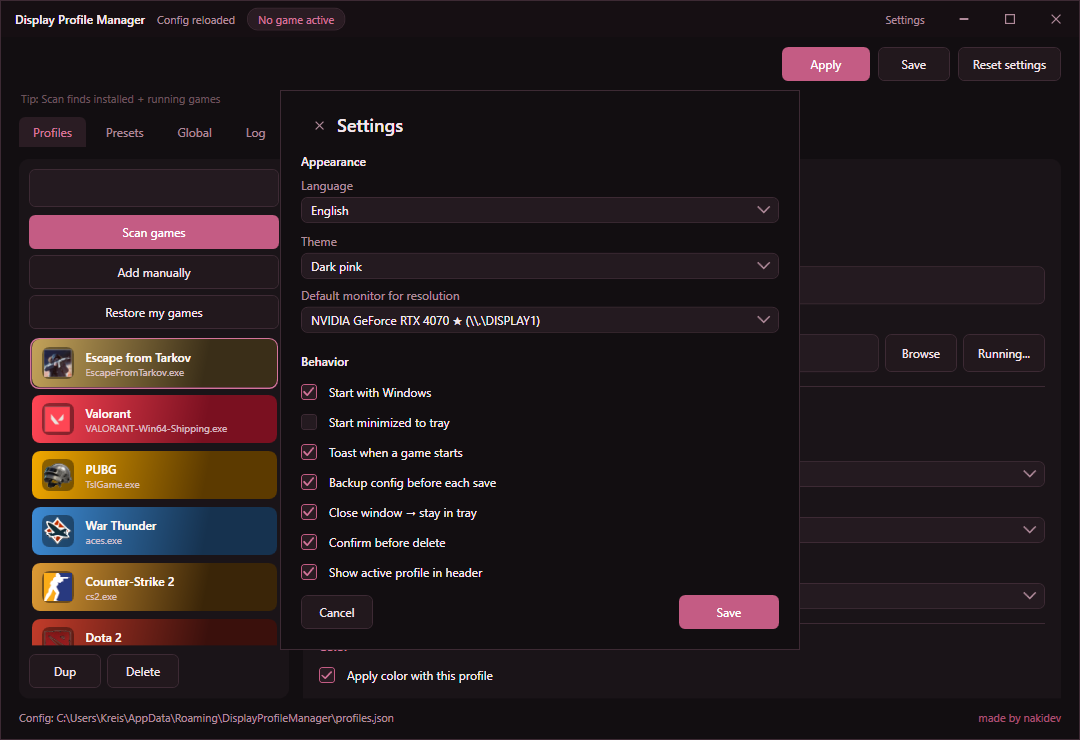
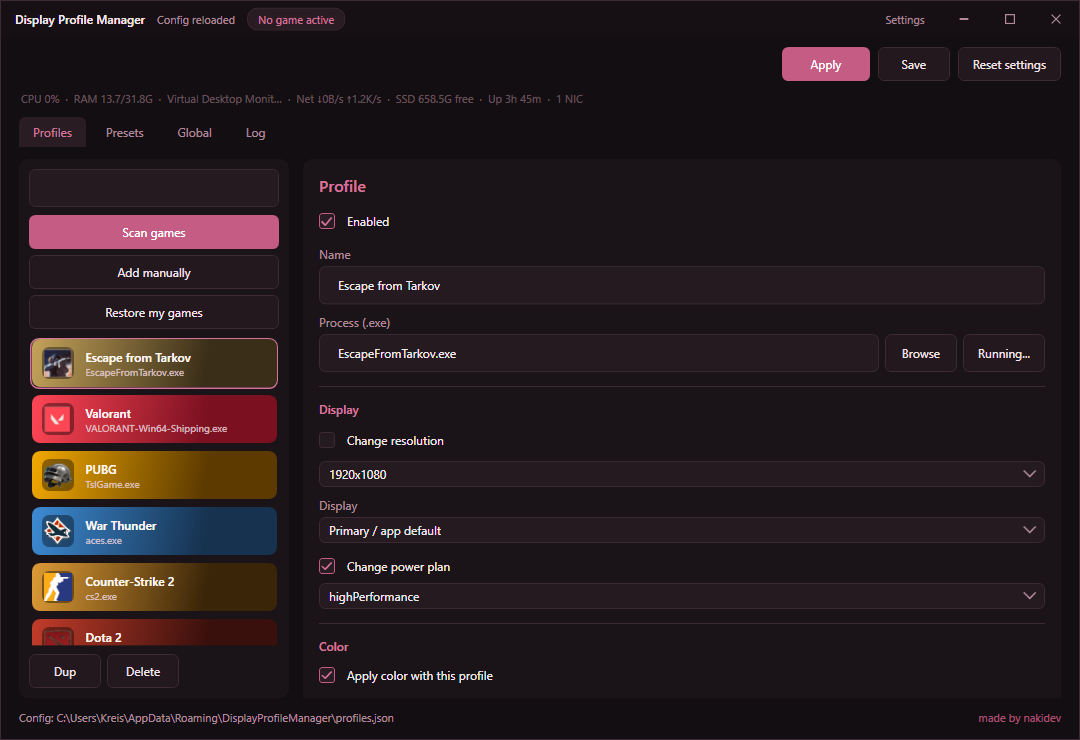
Fix README screenshots: Profiles vs Settings captions

diff --git a/README.md b/README.md
@@ -28,16 +28,16 @@
 ## Preview
 
 <p align="center">
-  <img src="docs/screenshots/main-window.png" width="820" alt="Main window — game profiles">
+  <img src="docs/screenshots/main-window.png" width="820" alt="Profiles tab">
 </p>
 
-<p align="center"><em>Profiles tab — pick a game, tune resolution / power / color, hit Save.</em></p>
+<p align="center"><em>Profiles — pick a game, tune resolution / power / color, then Save.</em></p>
 
 <p align="center">
-  <img src="docs/screenshots/settings.png" width="820" alt="Settings dialog">
+  <img src="docs/screenshots/settings.png" width="820" alt="Settings window">
 </p>
 
-<p align="center"><em>Settings — language, theme, monitor, tray and startup behaviour.</em></p>
+<p align="center"><em>Settings — language, theme, monitor, tray and startup options.</em></p>
 
 ---
 